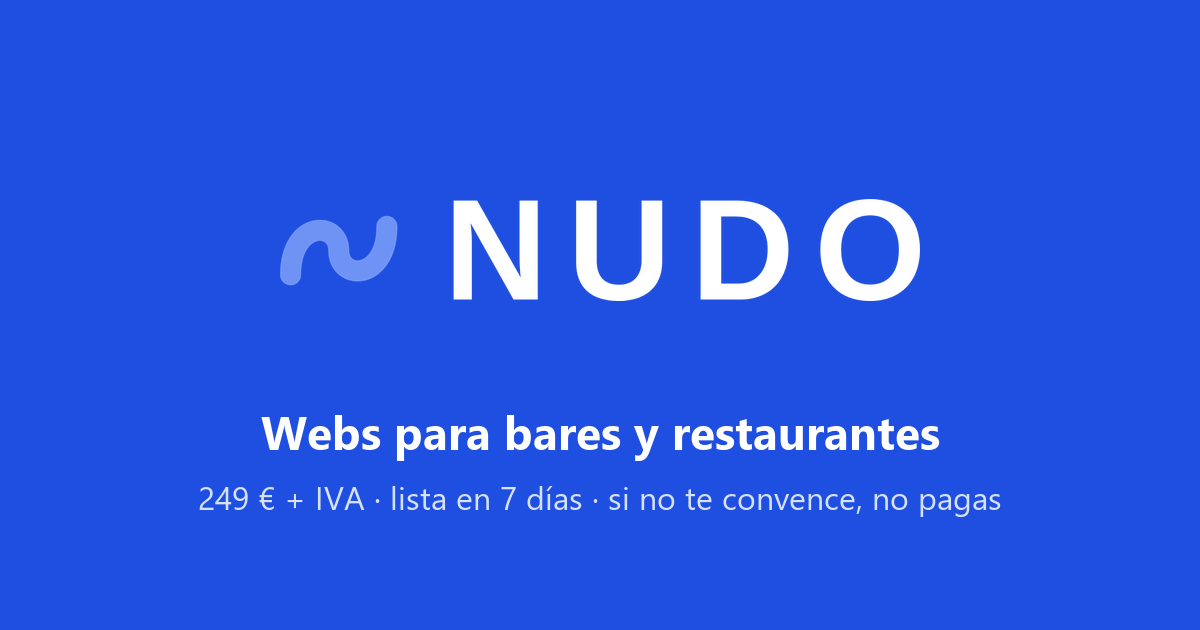
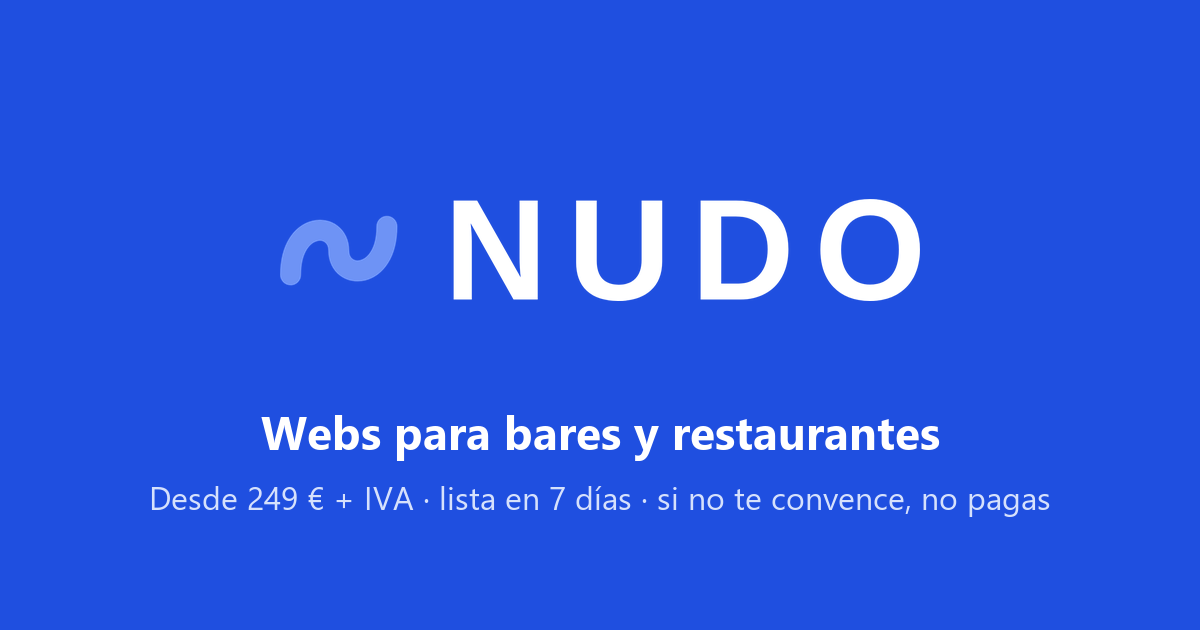
Precios «desde» y Servicios que cabe en pantallas bajas
- «Desde» en los precios de la web y del mantenimiento (tarjetas, servicios, pie, panel, meta, aviso legal e imagen para compartir)
- En portátiles con poca altura Servicios se cortaba por arriba y por abajo: se encogen o quitan las fotos de las tarjetas

Changed region(s): [[0.1233, 0.754, 0.8942, 0.8143]]

diff --git a/index.html b/index.html
@@ -1,7 +1,7 @@
 <meta charset="utf-8">
 <meta name="viewport" content="width=device-width, initial-scale=1">
 <title>Webs para bares y restaurantes | Nudo</title>
-<meta name="description" content="Webs para bares, restaurantes y hoteles por 249 € + IVA, un solo pago. Carta con alérgenos, reservas y móvil. Lista en 7 días y te la enseñamos antes de pagar.">
+<meta name="description" content="Webs para bares, restaurantes y hoteles desde 249 € + IVA, un solo pago. Carta con alérgenos, reservas y móvil. Lista en 7 días y te la enseñamos antes de pagar.">
 <meta name="theme-color" content="#0B0C10">
 
[1 lines of base64/hex data omitted]
@@ -1176,6 +1176,27 @@ body.sin-splash .pal > span{ animation-delay:0s !important; }
   .tarj__cond,.tarj__mas{ font-size:.84rem; }
 }
 .bola svg{ width:30px; height:30px; }
+
+/* Los precios son de partida: el «Desde» va encima y pequeño, para no restar protagonismo a la cifra */
+.tarj__precio small,.srv__precio small{ display:block; margin-bottom:3px; font-size:.34em; font-weight:600; letter-spacing:.01em; line-height:1.2; }
+.tarj__precio small{ color:var(--tinta-2); }
+.srv__precio small{ color:rgba(255,255,255,.8); }
+
+/* Servicios en pantallas bajas (portátiles): con la letra grande el título,
+   la frase y las dos tarjetas no cabían y quedaban cortados por arriba y por
+   abajo. Primero se encogen las fotos; si aún no cabe, fuera fotos y frase. */
+@media (min-width:761px) and (max-height:900px){
+  .srv{ gap:clamp(14px,2.6svh,26px); padding-top:calc(var(--barra) + 2svh); padding-bottom:3svh; }
+  .srv__foto{ height:clamp(56px,8svh,84px); }
+  .srv__cab p{ margin-top:8px; }
+  .srv__t ul{ gap:7px; margin-top:12px; }
+  .srv__pie{ margin-top:14px; padding-top:14px; }
+}
+@media (min-width:761px) and (max-height:780px){
+  .srv__foto{ display:none; }
+  .srv__cuerpo{ padding-top:22px; }
+  .srv__cab p{ display:none; }
+}
 </style>
 
 
@@ -1233,13 +1254,13 @@ body.sin-splash .pal > span{ animation-delay:0s !important; }
     <div class="hero__txt hero__3d" id="heroTxt">
       <button class="tarj" type="button" data-abre="web">
         <span class="tarj__et">Tu web</span>
-        <span class="tarj__precio">249 €<i> + IVA</i></span>
+        <span class="tarj__precio"><small>Desde</small>249 €<i> + IVA</i></span>
         <span class="tarj__cond">Un solo pago · 7 días</span>
         <span class="tarj__mas">Qué incluye →</span>
       </button>
       <button class="tarj" type="button" data-abre="mant">
         <span class="tarj__et">Mantenimiento</span>
-        <span class="tarj__precio">39 €<i> /mes</i></span>
+        <span class="tarj__precio"><small>Desde</small>39 €<i> /mes</i></span>
         <span class="tarj__cond">Opcional · sin permanencia</span>
         <span class="tarj__mas">Qué incluye →</span>
       </button>
@@ -1292,7 +1313,7 @@ body.sin-splash .pal > span{ animation-delay:0s !important; }
               <li>Dominio y alojamiento del primer año incluidos</li>
             </ul>
             <div class="srv__pie">
-              <p class="srv__precio">249 €<span>+ IVA · lista en 7 días</span></p>
+              <p class="srv__precio"><small>Desde</small>249 €<span>+ IVA · lista en 7 días</span></p>
               <button class="srv__btn" type="button" data-abre="web">Qué incluye</button>
             </div>
           </div>
@@ -1310,7 +1331,7 @@ body.sin-splash .pal > span{ animation-delay:0s !important; }
               <li>Si algo falla, lo arreglamos nosotros</li>
             </ul>
             <div class="srv__pie">
-              <p class="srv__precio">39 €<span>+ IVA · al mes</span></p>
+              <p class="srv__precio"><small>Desde</small>39 €<span>+ IVA · al mes</span></p>
               <button class="srv__btn" type="button" data-abre="mant">Qué incluye</button>
             </div>
           </div>
@@ -1498,7 +1519,7 @@ body.sin-splash .pal > span{ animation-delay:0s !important; }
     <p>Si algún día añadimos analítica, lo haremos con una herramienta sin cookies o te pediremos permiso antes de activarla, y rechazar será tan fácil como aceptar.</p>
 
     <h4>Servicios y precios</h4>
-    <p>Tu web desde 249 €, un solo pago, que se abona íntegro al aceptar la maqueta. Mantenimiento 39 €/mes, opcional y sin permanencia. El precio de la web incluye dominio y alojamiento durante el primer año. Precios sin IVA: al importe hay que sumarle el 21 %. Pueden cambiar para nuevas contrataciones; a quien ya es cliente se le respeta el precio mientras siga dado de alta.</p>
+    <p>Tu web desde 249 €, un solo pago, que se abona íntegro al aceptar la maqueta. Mantenimiento desde 39 €/mes, opcional y sin permanencia. El precio de la web incluye dominio y alojamiento durante el primer año. Precios sin IVA: al importe hay que sumarle el 21 %. Pueden cambiar para nuevas contrataciones; a quien ya es cliente se le respeta el precio mientras siga dado de alta.</p>
 
     <h4>La garantía</h4>
     <p>Antes de cobrarte nada te enseñamos una maqueta de tu local: una web de verdad, que puedes abrir en el móvil y tocar. Si no te convence, ahí se queda y no nos debes nada. El pago se hace cuando aceptas esa maqueta y nos encargas la web definitiva; desde ese momento el importe no se devuelve.</p>
@@ -1547,7 +1568,7 @@ body.sin-splash .pal > span{ animation-delay:0s !important; }
         <h4>Qué hacemos</h4>
         <ul>
           <li><button class="pie__enlace" type="button" data-abre="web">Tu web · desde 249 € + IVA</button></li>
-          <li><button class="pie__enlace" type="button" data-abre="mant">Mantenimiento · 39 €/mes + IVA</button></li>
+          <li><button class="pie__enlace" type="button" data-abre="mant">Mantenimiento · desde 39 €/mes + IVA</button></li>
         </ul>
       </div>
       <div>
@@ -1993,7 +2014,7 @@ body.sin-splash .pal > span{ animation-delay:0s !important; }
         nota: 'Un solo pago, al aceptar la maqueta de tu local. Antes de eso no pagas nada: si la maqueta no te convence, ah\u00ed se queda. Las fotos las haces t\u00fa con nuestra gu\u00eda; si no puedes, la montamos con las que tengas.'
       },
       mant: {
-        precio: '39 \u20ac + IVA / mes',
+        precio: 'desde 39 \u20ac + IVA / mes',
         tit: 'Mantenimiento',
         puntos: [
           'Cambios de carta, precios y horarios en 24 h, los que hagan falta',
@@ -2151,7 +2172,7 @@ body.sin-splash .pal > span{ animation-delay:0s !important; }
 
     var PREGUNTAS = [
       { q: '¿Cuánto cuesta?',
-        r: 'Tu web desde 249 € más IVA, un solo pago. Y 39 €/mes si quieres que te la mantengamos al día: cambios de carta y horarios en 24 h, dominio y alojamiento. Sin permanencia y es opcional.' },
+        r: 'Tu web desde 249 € más IVA, un solo pago. Y desde 39 €/mes si quieres que te la mantengamos al día: cambios de carta y horarios en 24 h, dominio y alojamiento. Sin permanencia y es opcional.' },
       { q: '¿Cuánto tarda?',
         r: 'En la llamada solo pedimos permiso para mandártela. Te llega la maqueta por WhatsApp y la miras cuando puedas. Desde que la aceptas y nos mandas tu carta y tus fotos, siete días hasta tenerla online.' },
       { q: '¿Y si no me gusta?',
